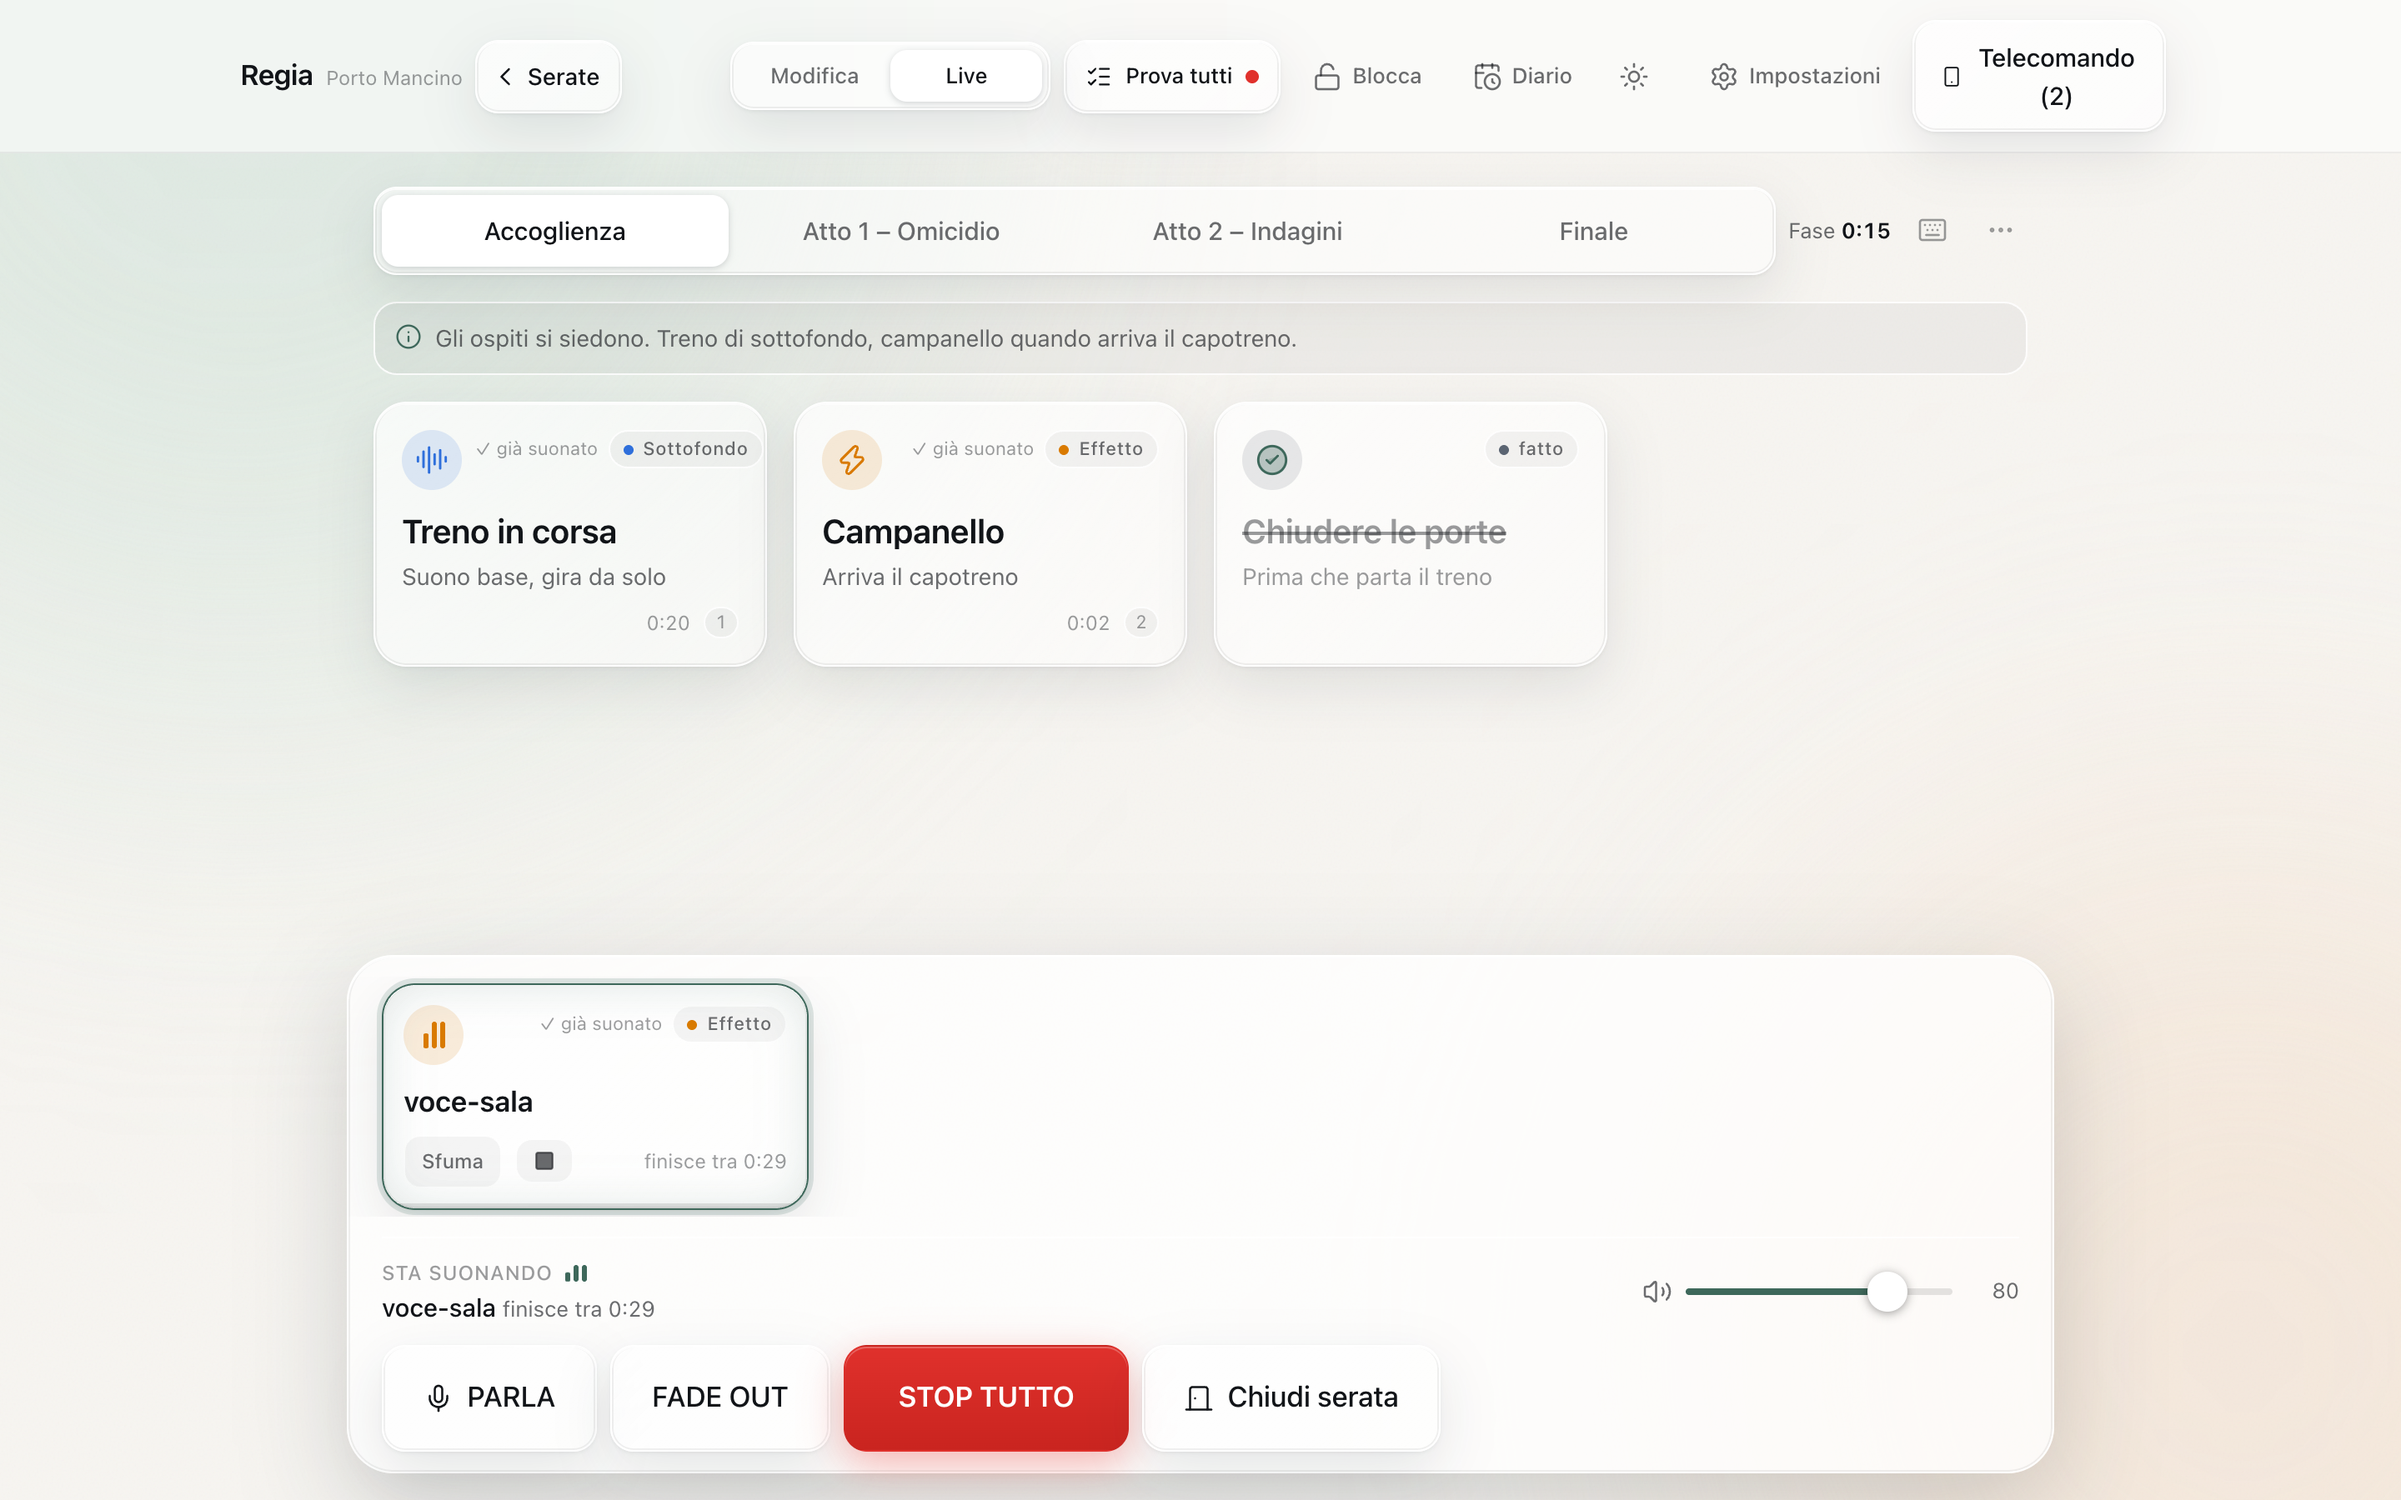
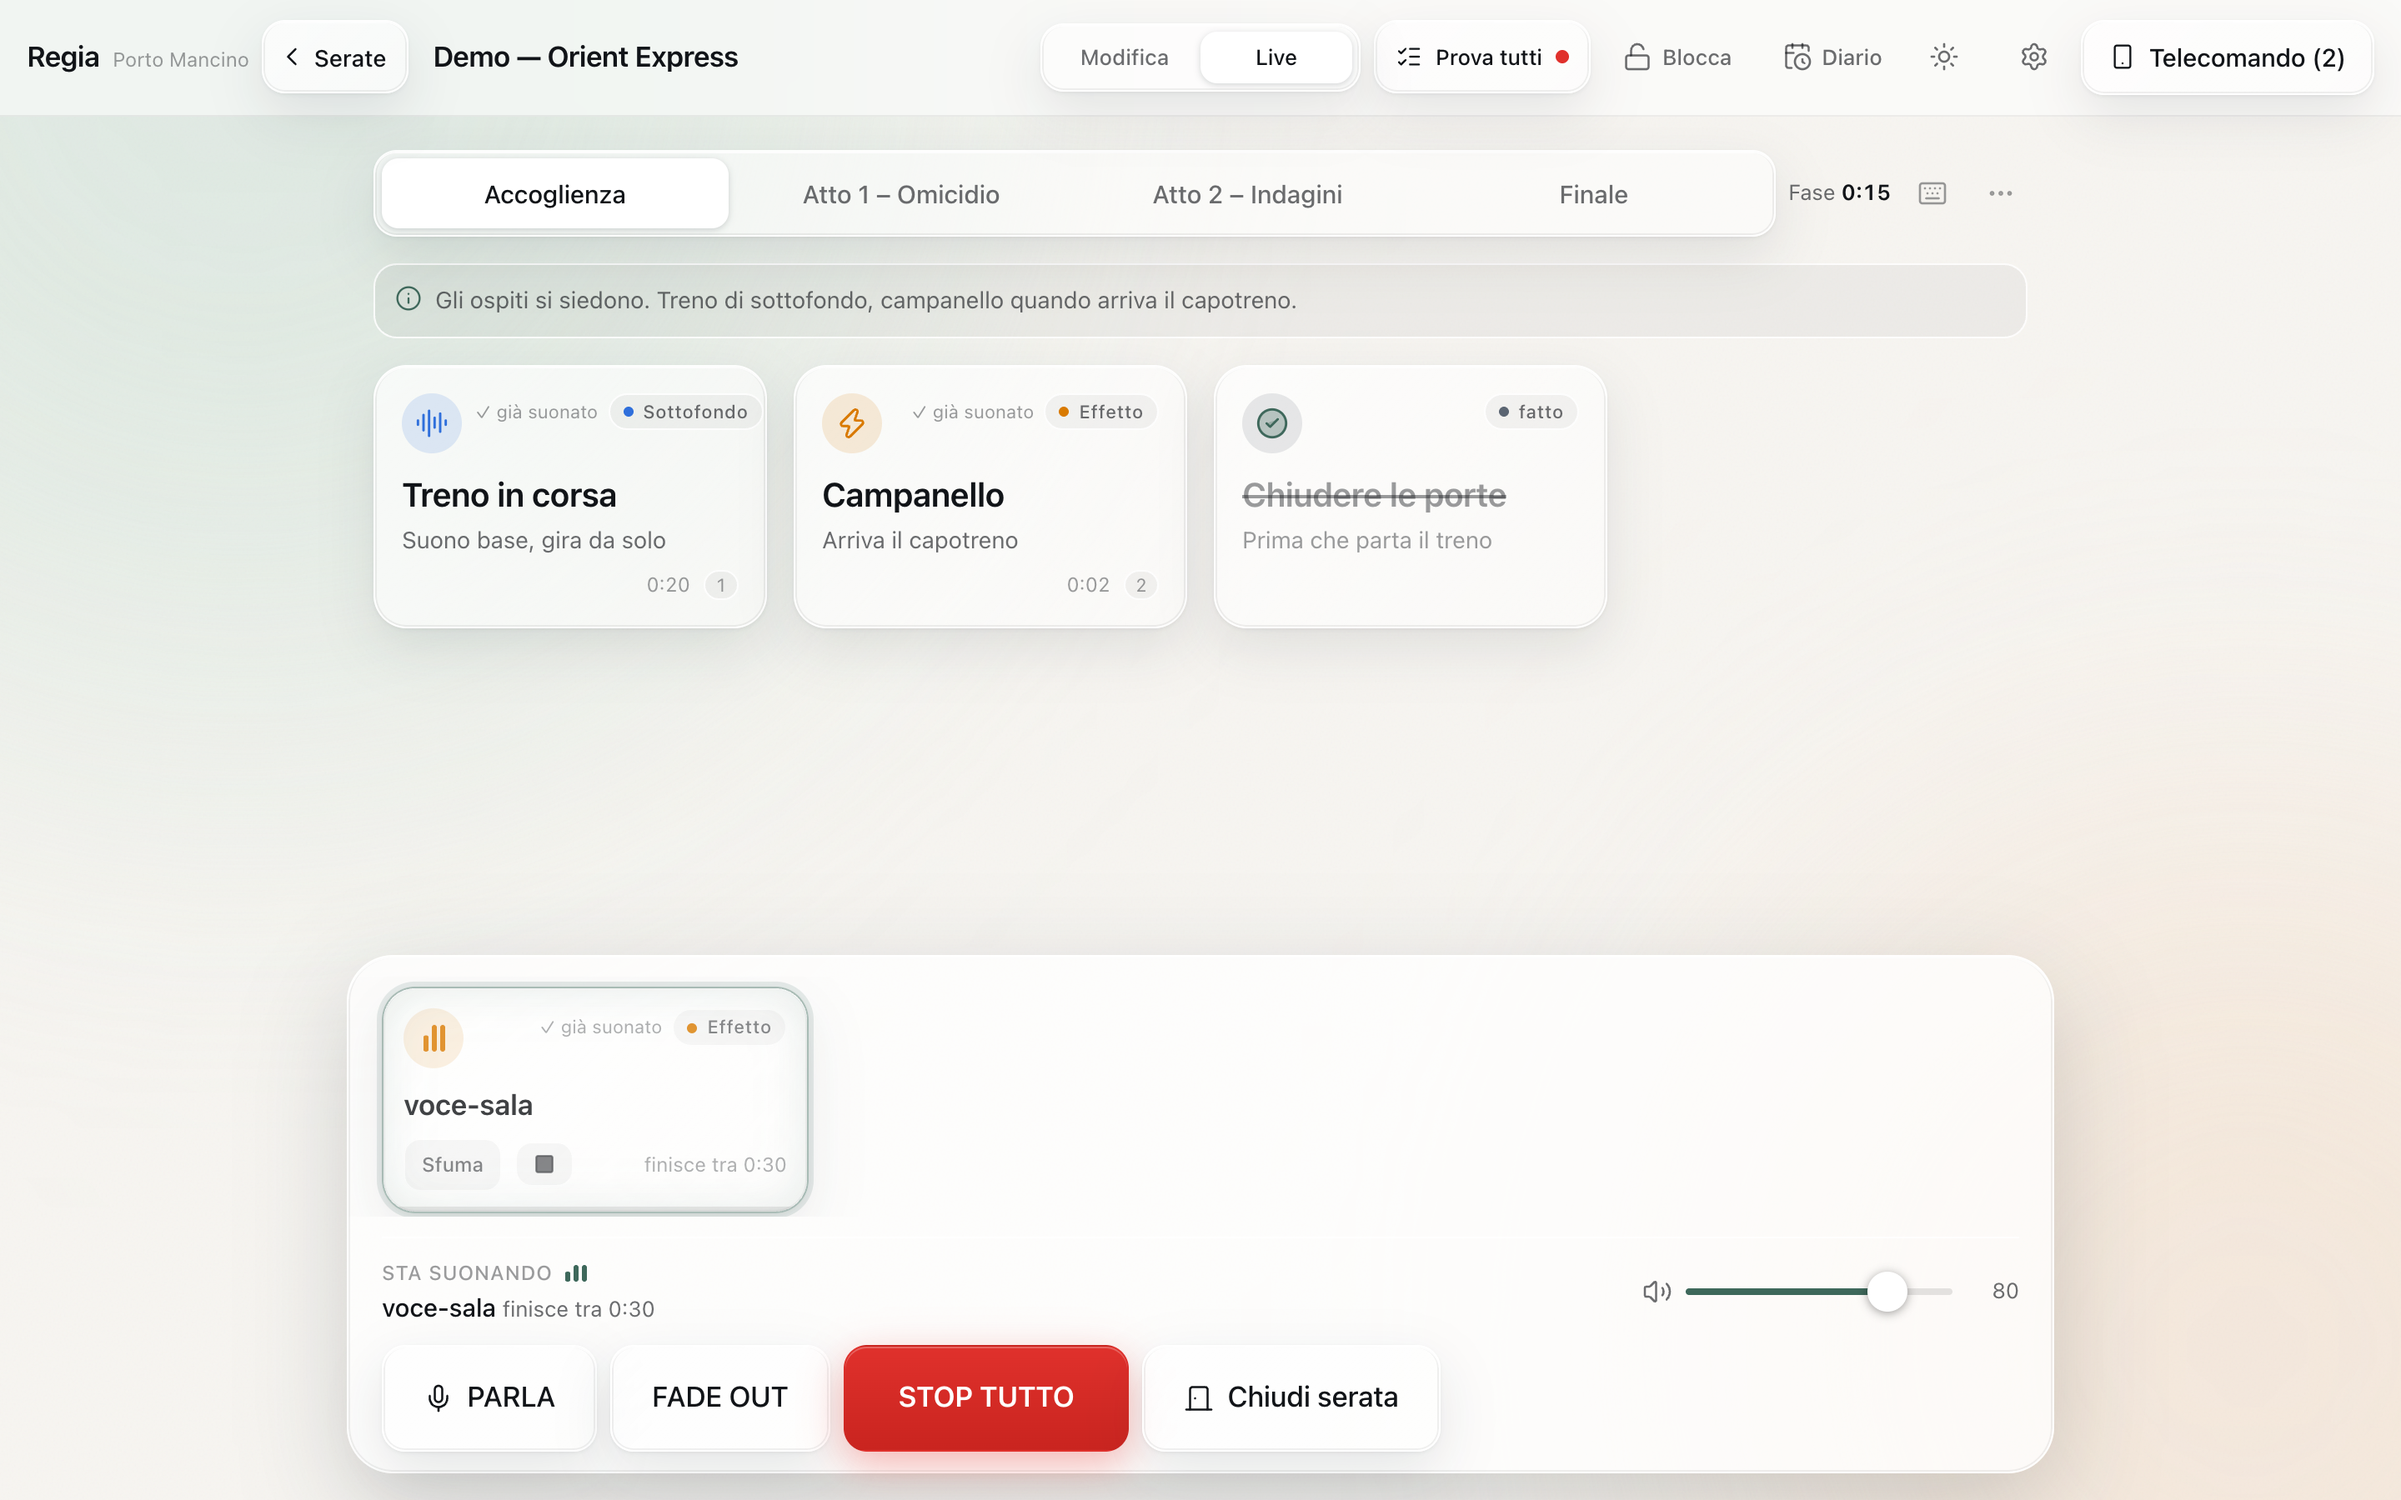
v1.5.1: il titolo del format non sparisce mai dalla barra di Live — contenitore fino a 1600 px, titolo con precedenza (min 180, max 320 px, ellissi oltre), etichette che cedono in ordine (Impostazioni < 1600, Diario < 1440, Blocca < 1360, Prova tutti < 1280); screenshot s14ter a 1280/1440/1680; e2e 

diff --git a/web/src/pagine/Regia.tsx b/web/src/pagine/Regia.tsx
@@ -810,8 +810,13 @@ export function PaginaRegia() {
   const serveSblocco = sonoIlMotore && !audioAttivo && motoreRef.current !== null;
   const bloccato = config.impostazioni.bloccoModifiche === true;
   const inImpostazioni = percorso === "/impostazioni" || percorso === "/luci";
-  // Sotto 1200 px le etichette di Prova tutti / Blocca / Diario tornano a icona (col tooltip).
-  const etichetta = "hidden min-[1200px]:inline";
+  // Il titolo del format ha la precedenza: sono le etichette a cedere, in quest'ordine
+  // (dalla finestra più stretta): Impostazioni → icona sotto 1600, Diario sotto 1440,
+  // Blocca sotto 1360, Prova tutti sotto 1280. Sopra i 1600 px tutte le etichette.
+  const etichettaProva = "hidden min-[1280px]:inline";
+  const etichettaBlocca = "hidden min-[1360px]:inline";
+  const etichettaDiario = "hidden min-[1440px]:inline";
+  const etichettaImpostazioni = "hidden min-[1600px]:inline";
 
   return (
     <div className="min-h-full">
@@ -919,7 +924,7 @@ export function PaginaRegia() {
       {/* Barra superiore: a sinistra "‹ Serate" e il titolo, al centro Modifica/Live,
           a destra Prova tutti, Blocca, Diario, sole/luna, Impostazioni, Telecomando. */}
       <header className="vetro-barra sticky top-0 z-30 border-b border-[var(--hairline-barra)] px-4 py-3 backdrop-blur-xl">
-        <div className="mx-auto flex max-w-6xl items-center gap-2">
+        <div className="mx-auto flex max-w-[1600px] items-center gap-2">
           {/* Il logo è un link alla Home (stesso stile, cursore a manina). */}
           <a
             href="/"
@@ -957,18 +962,21 @@ export function PaginaRegia() {
               >
                 <ChevronLeft size={18} strokeWidth={1.75} aria-hidden /> Serate
               </button>
-              <div className="min-w-0 flex-1 text-[17px] font-semibold tracking-[-0.01em]">
+              {/* Il titolo: almeno 180 px, ellissi solo oltre i 320. */}
+              <div className="min-w-[180px] max-w-[320px] flex-1 text-[17px] font-semibold tracking-[-0.01em]" data-titolo-format>
                 <InputInline
                   valore={formatAperto.nome}
                   onCambia={(v) => void api.rinominaFormat(formatAperto.id, v).then(() => void ricaricaConfig())}
+                  className="w-full truncate rounded-[10px] border border-transparent bg-transparent px-1.5 py-0.5 transition-colors hover:border-vetro-bordo focus:border-brand-chiaro focus:bg-velo focus:outline-none"
                 />
               </div>
             </>
           )}
           {!formatAperto && <div className="flex-1" />}
+          {/* Il titolo cresce fino a 320 px; quel che avanza finisce qui (ml-auto), a destra. */}
           <span
             aria-live="polite"
-            className={`hidden shrink-0 text-[12px] transition-opacity duration-300 sm:block ${
+            className={`ml-auto hidden shrink-0 text-[12px] transition-opacity duration-300 sm:block ${
               salvataggi > 0 ? "text-testo-2" : salvatoAlmeno ? "text-testo-3" : "opacity-0"
             }`}
           >
@@ -996,7 +1004,7 @@ export function PaginaRegia() {
               data-prova-tutti
             >
               <ListChecks size={16} strokeWidth={1.75} aria-hidden />
-              <span className={soundcheck ? "" : etichetta}>{soundcheck ? `Ferma ${soundcheck.indice} / ${soundcheck.totale}` : "Prova tutti"}</span>
+              <span className={soundcheck ? "" : etichettaProva}>{soundcheck ? `Ferma ${soundcheck.indice} / ${soundcheck.totale}` : "Prova tutti"}</span>
               {!soundcheck && !soundcheckDelFormat && (
                 <span aria-label="Soundcheck di oggi non fatto" className="h-2 w-2 rounded-full bg-rosso" data-pallino-soundcheck />
               )}
@@ -1018,7 +1026,7 @@ export function PaginaRegia() {
               }`}
             >
               {bloccato ? <Lock size={18} strokeWidth={1.75} aria-hidden /> : <LockOpen size={18} strokeWidth={1.75} aria-hidden />}
-              <span className={etichetta}>{bloccato ? "Bloccato" : "Blocca"}</span>
+              <span className={etichettaBlocca}>{bloccato ? "Bloccato" : "Blocca"}</span>
             </button>
           )}
           <button
@@ -1033,7 +1041,7 @@ export function PaginaRegia() {
             }`}
           >
             <CalendarClock size={18} strokeWidth={1.75} aria-hidden />
-            <span className={etichetta}>Diario</span>
+            <span className={etichettaDiario}>Diario</span>
           </button>
           <InterruttoreTema chiave="tema-regia" />
           <button
@@ -1048,12 +1056,12 @@ export function PaginaRegia() {
             }`}
           >
             <Settings size={18} strokeWidth={1.75} aria-hidden />
-            <span className={formatAperto ? etichetta : "hidden sm:inline"}>Impostazioni</span>
+            <span className={formatAperto ? etichettaImpostazioni : "hidden sm:inline"}>Impostazioni</span>
           </button>
           <PannelloTelecomando telefoni={telefoni} chiave={`${percorso}|${vista}`} />
         </div>
         {!sonoIlMotore && (
-          <div className="mx-auto mt-2 flex max-w-6xl items-center gap-2">
+          <div className="mx-auto mt-2 flex max-w-[1600px] items-center gap-2">
             <span className="inline-block rounded-full border border-vetro-bordo bg-velo px-3 py-1 text-[12px] text-testo-2">
               Un'altra finestra Regia sta comandando.
             </span>

diff --git a/docs/SESSIONS_LOG.md b/docs/SESSIONS_LOG.md
@@ -774,3 +774,19 @@ DECISIONI PRESE DA SOLO (S14-bis)
 - Le luci simulate hanno un pulsante "Prova con luci simulate" solo quando la
   centralina è "non trovata": con una centralina vera abbinata o da abbinare
   non si propone.
+
+## S14-ter — 27 settembre 2026 — v1.5.1: il titolo del format non sparisce mai
+
+- In S14-bis la barra di Live aveva un contenitore da 1152 px: con tutte le
+  etichette accese il titolo del format finiva schiacciato a 14 px (invisibile).
+  Ora il contenitore arriva a 1600 px e il titolo (dopo "‹ Serate") ha la
+  precedenza: larghezza minima 180 px, cresce fino a 320 px (ellissi solo
+  oltre), è lui a prendersi lo spazio libero per primo (il resto va a destra
+  con `ml-auto`). Sono le etichette a cedere, dalla finestra più stretta:
+  "Impostazioni" → icona sotto 1600, "Diario" sotto 1440, "Blocca" sotto 1360,
+  "Prova tutti" sotto 1280. Sopra i 1600 px tutte le etichette.
+- Verificato a 1280, 1440 e 1680 px col format demo "Demo — Orient Express":
+  titolo per intero in tutti e tre (268 / 320 / 320 px), etichette come
+  atteso. e2e: a 1440 il titolo è largo più di 150 px e non è tagliato.
+  Screenshot in docs/screenshots/s14ter/ (scripts/screenshot-s14ter.mjs).
+- **v1.5.1** → dist-pacchetti/Regia-v1.5.1.zip.
